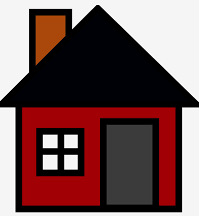
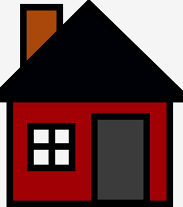
When Truck arrives at an order, the house representation moves to the location of the next order

Changed region(s): [[0.0, 0.058, 1.0, 1.0], [0.0, 0.0, 0.5464, 0.4638]]

diff --git a/src/Truck.java b/src/Truck.java
@@ -64,84 +64,92 @@ public class Truck extends JPanel implements Representations {
      */
     @Override
     public void update() {
-        Location currentDestination = destinations.getFirst();
-        Location closestIntersectionDestination = currentDestination.getClosestIntersection();
-        Location closestIntersectionCurrent = location.getClosestIntersection();
+        if (!destinations.isEmpty()) {
+            Location currentDestination = destinations.getFirst();
+            Location closestIntersection = currentDestination.getClosestIntersection();
 
-        boolean canMoveUpOrDown = location.getX() % 100 == 0;
-        boolean canMoveLeftOrRight = location.getY() % 100 == 0;
+            boolean canMoveUpOrDown = location.getX() % 100 == 0;
+            boolean canMoveLeftOrRight = location.getY() % 100 == 0;
 
-        if(location.equals(currentDestination)) {
+            move(currentDestination, closestIntersection, canMoveUpOrDown, canMoveLeftOrRight);
+        }
+    }
+
+    /**
+     * \logic for moving the truck
+     * @param destination
+     * @param intersection
+     * @param upDown
+     * @param leftRight
+     */
+    private void move(Location destination, Location intersection, boolean upDown, boolean leftRight)
+    {
+        if(location.equals(destination)) {
             destinations.removeFirst();
             this.update();
         }
-        else {
-//            if(location.getY() == currentDestination.getY())
-//                location = new Location(location.getX()+20, location.getY());
-//            else
-//                location = new Location(location.getX(), location.getY()+20);
-//            test code that to make the truck move along the road
 
-            if (currentDestination.getY() > location.getY() && canMoveUpOrDown)
+        else {
+
+            if (destination.getY() > location.getY() && upDown)
                 truckMoveDown();
 
-            else if(currentDestination.getY() > location.getY() && !canMoveUpOrDown)
+            else if(destination.getY() > location.getY() && !upDown)
             {
                 if (location.getClosestIntersectionX() > location.getX())
                     truckMoveRight();
                 else
                     truckMoveLeft();
 
-                destinations.addFirst(closestIntersectionDestination);
+                destinations.addFirst(intersection);
 
             }
 
 
-            else if (currentDestination.getY() < location.getY() && canMoveUpOrDown)
+            else if (destination.getY() < location.getY() && upDown)
                 truckMoveUp();
 
-            else if(currentDestination.getY() < location.getY() && !canMoveUpOrDown)
+            else if(destination.getY() < location.getY() && !upDown)
             {
                 if (location.getClosestIntersectionX() > location.getX())
                     truckMoveRight();
                 else
                     truckMoveLeft();
 
-                destinations.addFirst(closestIntersectionDestination);
+                destinations.addFirst(intersection);
 
             }
 
 
-            else if (currentDestination.getX() > location.getX() && canMoveLeftOrRight)
+            else if (destination.getX() > location.getX() && leftRight)
                 truckMoveRight();
 
-            else if(currentDestination.getX() > location.getX() && !canMoveLeftOrRight)
+            else if(destination.getX() > location.getX() && !leftRight)
             {
                 if (location.getClosestIntersectionY() > location.getY())
                     truckMoveDown();
                 else
                     truckMoveUp();
 
-                destinations.addFirst(closestIntersectionDestination);
+                destinations.addFirst(intersection);
 
             }
 
 
-            else if (currentDestination.getX() < location.getX() && canMoveLeftOrRight)
+            else if (destination.getX() < location.getX() && leftRight)
                 truckMoveLeft();
 
-            else if(currentDestination.getX() < location.getX() && !canMoveLeftOrRight)
-            {
+            else if(destination.getX() < location.getX() && !leftRight) {
                 if (location.getClosestIntersectionY() > location.getY())
                     truckMoveDown();
                 else
                     truckMoveUp();
 
-                destinations.addFirst(closestIntersectionDestination);
-
+                destinations.addFirst(intersection);
             }
         }
     }
+
 
     /**
      * moves truck up
@@ -174,7 +182,7 @@ public class Truck extends JPanel implements Representations {
     /**
      * truck moves but can only make right turns
      */
-    public void updateRightOnly(){
+    public void moveRight(){
 
     }
 

diff --git a/src/TruckMap.java b/src/TruckMap.java
@@ -11,7 +11,7 @@ import java.util.*;
 public class TruckMap extends Panel {
     public Truck truck;
     public ServiceCenter serviceCenter;
-
+    public RedHouse redHouse;
 
     /**
      * creates the service center and a basic truck to check if movement works
@@ -19,10 +19,8 @@ public class TruckMap extends Panel {
     TruckMap() {
         Location location = new Location(500, 500);
 
-        // call readBatchFile() and assign to ArrayList orders
         ArrayList<Order> orders = readBatchFile();
 
-        // instantiate new strategy (can choose to either prioritize distance or the time of the order)
         RouteStrategy timeStrategy = new TimeStrategy();
         RouteStrategy distanceStrategy = new DistanceStrategy();
 
@@ -35,10 +33,10 @@ public class TruckMap extends Panel {
             System.out.println(destination);
         }
 
-        // call convertOrdersToLocations(orders) and assign to destinations
 
         truck = new Truck(location, destinations, timeStrategy);
         serviceCenter = new ServiceCenter();
+        redHouse = new RedHouse(destinations);
     }
 
     /**
@@ -46,10 +44,15 @@ public class TruckMap extends Panel {
      */
     public void update() {
         truck.update();
+        if (truck.location.equals(redHouse.location))
+        {
+            redHouse.update();
+        }
     }
 
 
-    void drawLines(Graphics g) {
+    void drawNeighborhood(Graphics g) {
+
     /*
     Draws the basic gridlines on the JFrame, which are used to position addresses
      */
@@ -69,7 +72,8 @@ public class TruckMap extends Panel {
      */
     public void paint(Graphics g) {
         super.paint(g);
-        drawLines(g);
+        drawNeighborhood(g);
+        redHouse.paintComponent(g);
         truck.paintComponent(g);
         serviceCenter.paintComponent(g);
     }

diff --git a/src/RedHouse.java b/src/RedHouse.java
@@ -1,0 +1,51 @@
+import javax.imageio.ImageIO;
+import javax.swing.*;
+import java.awt.*;
+import java.awt.image.BufferedImage;
+import java.io.File;
+import java.io.IOException;
+import java.util.LinkedList;
+
+public class RedHouse extends JPanel implements Representations {
+
+    public Location location;
+    public LinkedList<Location> destinations;
+    public BufferedImage image;
+
+    RedHouse(LinkedList<Location> destinations){
+        this.destinations = destinations;
+        this.location = this.destinations.getFirst();
+        createImage();
+    }
+
+    @Override
+    public int getLocationX() {
+        return location.getX();
+    }
+
+    @Override
+    public int getLocationY() {
+        return location.getY();
+    }
+
+    @Override
+    public void createImage() {
+        try {
+            image = ImageIO.read(new File("src/HouseType2.png"));
+        } catch (IOException e) {
+            e.printStackTrace();
+        }
+    }
+
+    @Override
+    public void update() {
+        destinations.removeFirst();
+        location = destinations.getFirst();
+    }
+
+    @Override
+    public void paintComponent(Graphics g) {
+        super.paintComponent(g);
+        g.drawImage(image,location.getX(),location.getY(),20,20,null);
+    }
+}

diff --git a/src/OrangeHouse.java b/src/OrangeHouse.java
@@ -1,0 +1,50 @@
+import javax.imageio.ImageIO;
+import javax.swing.*;
+import java.awt.*;
+import java.awt.image.BufferedImage;
+import java.io.File;
+import java.io.IOException;
+import java.util.LinkedList;
+
+public class OrangeHouse extends JPanel implements Representations {
+
+    public Location location;
+    public LinkedList<Location> destinations;
+    public BufferedImage image;
+
+    OrangeHouse(LinkedList<Location> destinations){
+        this.destinations = destinations;
+        this.location = this.destinations.getFirst();
+        createImage();
+    }
+
+    @Override
+    public int getLocationX() {
+        return location.getX();
+    }
+
+    @Override
+    public int getLocationY() {
+        return location.getY();
+    }
+
+    @Override
+    public void createImage() {
+        try {
+            image = ImageIO.read(new File("src/HouseType1.jpeg"));
+        } catch (IOException e) {
+            e.printStackTrace();
+        }
+    }
+
+    @Override
+    public void update() {
+
+    }
+
+    @Override
+    public void paintComponent(Graphics g) {
+        super.paintComponent(g);
+        g.drawImage(image,location.getX()-10,location.getY()-10,20,20,null);
+    }
+}

diff --git a/src/TruckSim.java b/src/TruckSim.java
@@ -10,7 +10,6 @@ public class TruckSim extends JFrame {
      * @param width
      */
     TruckSim(int length, int width){
-
         setSize(length,width);
         truckMap = new TruckMap();
 
@@ -23,7 +22,6 @@ public class TruckSim extends JFrame {
      * Creates truck and service center, and makes the truck change location to reach destination
      */
     public void runSim() {
-        int i = 0;
         while (truckMap.truckHasOrders()) {
             truckMap.update();
             truckMap.repaint();

diff --git a/src/Main.java b/src/Main.java
@@ -2,7 +2,7 @@ public class Main
 {
     public static void main(String[] args)
     {
-        TruckSim sim = new TruckSim(1000,1000);
+        TruckSim sim = new TruckSim(1500,1000);
         sim.runSim();
     }
 }
